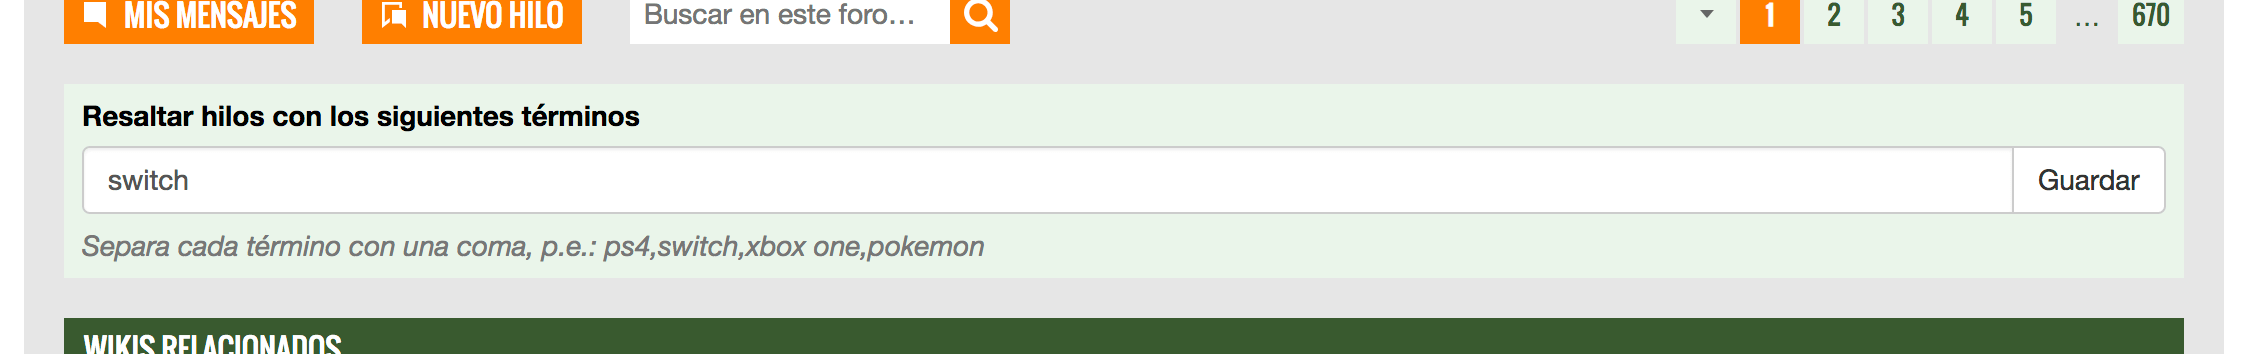
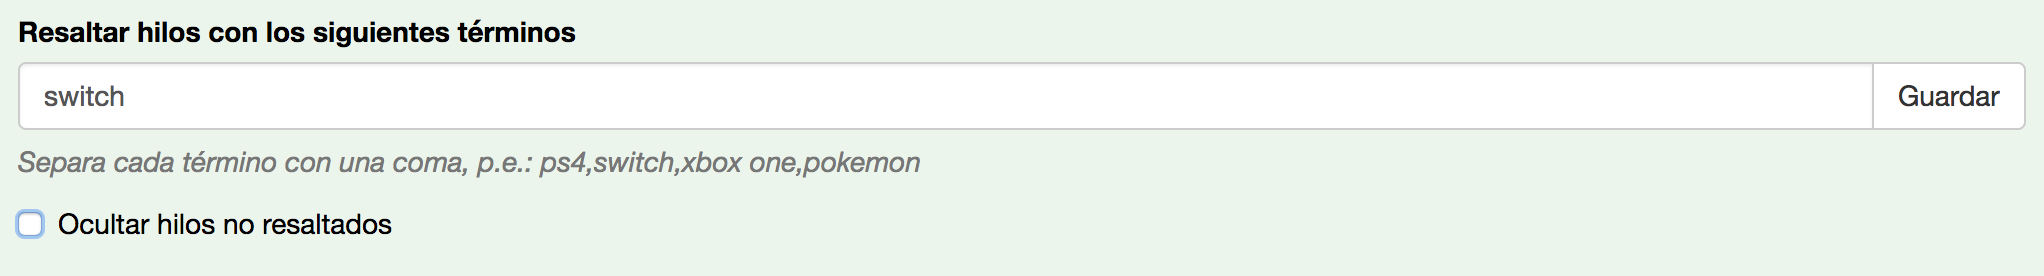
Added an option to hide the threads that does not match the search

diff --git a/eolplus.user.js b/eolplus.user.js
@@ -4,7 +4,7 @@
 // @description  Mejoras y nuevas funciones para ElOtroLado.net.
 // @author       Saikuro
 // @copyright    2018+, Saikuro
-// @version      0.3.2
+// @version      0.4.0
 // @license      MIT
 // @homepageURL  https://github.com/saikusan/eolplus
 // @supportURL   https://github.com/saikusan/eolplus/issues
@@ -30,8 +30,8 @@
             // C/V forums IDs
             this.cv_ids = ['212', '97', '164', '98', '99', '100'];
 
-            // Config
-            this.cv_highlights = this.getSetting('cv_highlights');
+            // Settings
+            this.loadSettings();
 
             // Start
             this.init();
@@ -77,7 +77,7 @@
                 let self = this;
                 let posts = document.querySelectorAll('.post');
                 posts.forEach(function (post, index) {
-                    let about = post.querySelector('.about');
+                   let about = post.querySelector('.about');
                     if (about) {
                         let author_url = new URL(post.querySelector('.author').getAttribute('href'), window.location.origin);
                         let author_id = author_url.searchParams.get('u');
@@ -90,7 +90,8 @@
 
         highlightCVThreads() {
             if (this.cv_ids.includes(this.section_id) && this.cv_highlights) {
-                let html = '<div style="position: absolute; right: 0; top: 0; bottom: 0; width: 80px; overflow: hidden;"><i class="fa fa-exclamation-circle" aria-hidden="true" style="color: #395a2f; font-size: 90px; line-height: 1; opacity: 0.15; transform: rotate(20deg); position: absolute; left: 25px; top: -28px;"></i></div>';
+                let self = this;
+                let html = '<div class="cv-alert" style="position: absolute; right: 0; top: 0; bottom: 0; width: 80px; overflow: hidden;"><i class="fa fa-exclamation-circle" aria-hidden="true" style="color: #395a2f; font-size: 90px; line-height: 1; opacity: 0.15; transform: rotate(20deg); position: absolute; left: 25px; top: -28px;"></i></div>';
                 let terms = this.cv_highlights.split(',');
                 let threads = document.querySelectorAll('.topic');
 
@@ -103,6 +104,17 @@
                             thread.querySelector('.lastpost').style.zIndex = '2';
                             thread.style.backgroundColor = '#d1ecd1';
                             thread.insertAdjacentHTML("beforeend", html);
+                        } else {
+                            let alert = thread.querySelector('.cv-alert');
+                            if (alert) {
+                                thread.style.backgroundColor = '#eaf5ea';
+                                thread.removeChild(alert);
+                            }
+                            if (self.cv_hide > 0) {
+                                thread.style.display = 'none';
+                            } else {
+                                thread.style.display = 'block';
+                            }
                         }
                     });
                 });
@@ -130,6 +142,7 @@
 
         cvSettingsHtml() {
             if (this.cv_ids.includes(this.section_id)) {
+                let self = this;
                 let html = `<div class="cv-settings">
                     <label>Resaltar hilos con los siguientes términos</label>
                     <div class="input-group">
@@ -139,24 +152,41 @@
                         </div>
                     </div>
                     <p class="help-block text-muted"><i>Separa cada término con una coma, p.e.: ps4,switch,xbox one,pokemon</i></p>
+                    <div class="checkbox">
+                        <label><input type="checkbox" name="cv_hide" value="" ${this.cv_hide > 0 ? 'checked' : ''}>Ocultar hilos que no coincidan con la búsqueda</label>
+                    </div>
                 </div>`;
                 document.querySelector('.forum-actions').insertAdjacentHTML("beforeend", html);
+                // Events
                 document.querySelector('.cv-settings button').addEventListener('click', () => {
                     this.saveCVSettings();
                 })
-                document.querySelector('.cv-settings input').addEventListener('keyup', (e) => {
+                document.querySelector('.cv-settings [name="cv_highlights"]').addEventListener('keyup', (e) => {
                     if (e.keyCode == 13) {
                         this.saveCVSettings();
                     }
                 });
+                document.querySelector('.cv-settings [name="cv_hide"]').addEventListener('click', (e) => {
+                    if (this.setSetting('cv_hide', e.target.checked ? 1 : 0)) {
+                        self.highlightCVThreads();
+                    }
+                })
             }
         }
 
         // Settings
+        loadSettings() {
+            this.cv_highlights = this.getSetting('cv_highlights');
+            this.cv_hide = this.getSetting('cv_hide');
+
+            console.log('Highlights', this.cv_highlights);
+            console.log('Hide', this.cv_hide);
+        }
+
         saveCVSettings() {
             let value = document.querySelector('[name="cv_highlights"]').value;
             if (this.setSetting('cv_highlights', value)) {
-                location.reload();
+                this.highlightCVThreads();
             }
         }
 
@@ -206,6 +236,7 @@
         setSetting(name, value) {
             try {
                 localStorage.setItem(name, value);
+                this.loadSettings();
                 return true;
             } catch (e) {
                 console.log('Failed to set local storage item ' + name + ', ' + e + '.')

diff --git a/eolplus.meta.js b/eolplus.meta.js
@@ -4,7 +4,7 @@
 // @description  Mejoras y nuevas funciones para ElOtroLado.net.
 // @author       Saikuro
 // @copyright    2018+, Saikuro
-// @version      0.3.2
+// @version      0.4.0
 // @license      MIT
 // @homepageURL  https://github.com/saikusan/eolplus
 // @supportURL   https://github.com/saikusan/eolplus/issues

diff --git a/README.md b/README.md
@@ -5,9 +5,9 @@ Este script está pensado para añadir mejoras y nuevas funciones a [ElOtroLado.
 * Ver propios mensajes en el hilo actual
 * Ver mensajes de un usuario concreto en el hilo actual
 * Resaltado de hilos en C/V gestionable con filtros
+* Ocultar hilos en C/V que no coincidan con la búsqueda
 
 Próximas funciones:
-* Ocultar hilos en C/V no resaltados
 * Filtros de C/V independientes por subforo
 
 Si tenéis sugerencias, no dudés en contactarme mediante el foro: [MP][3]
